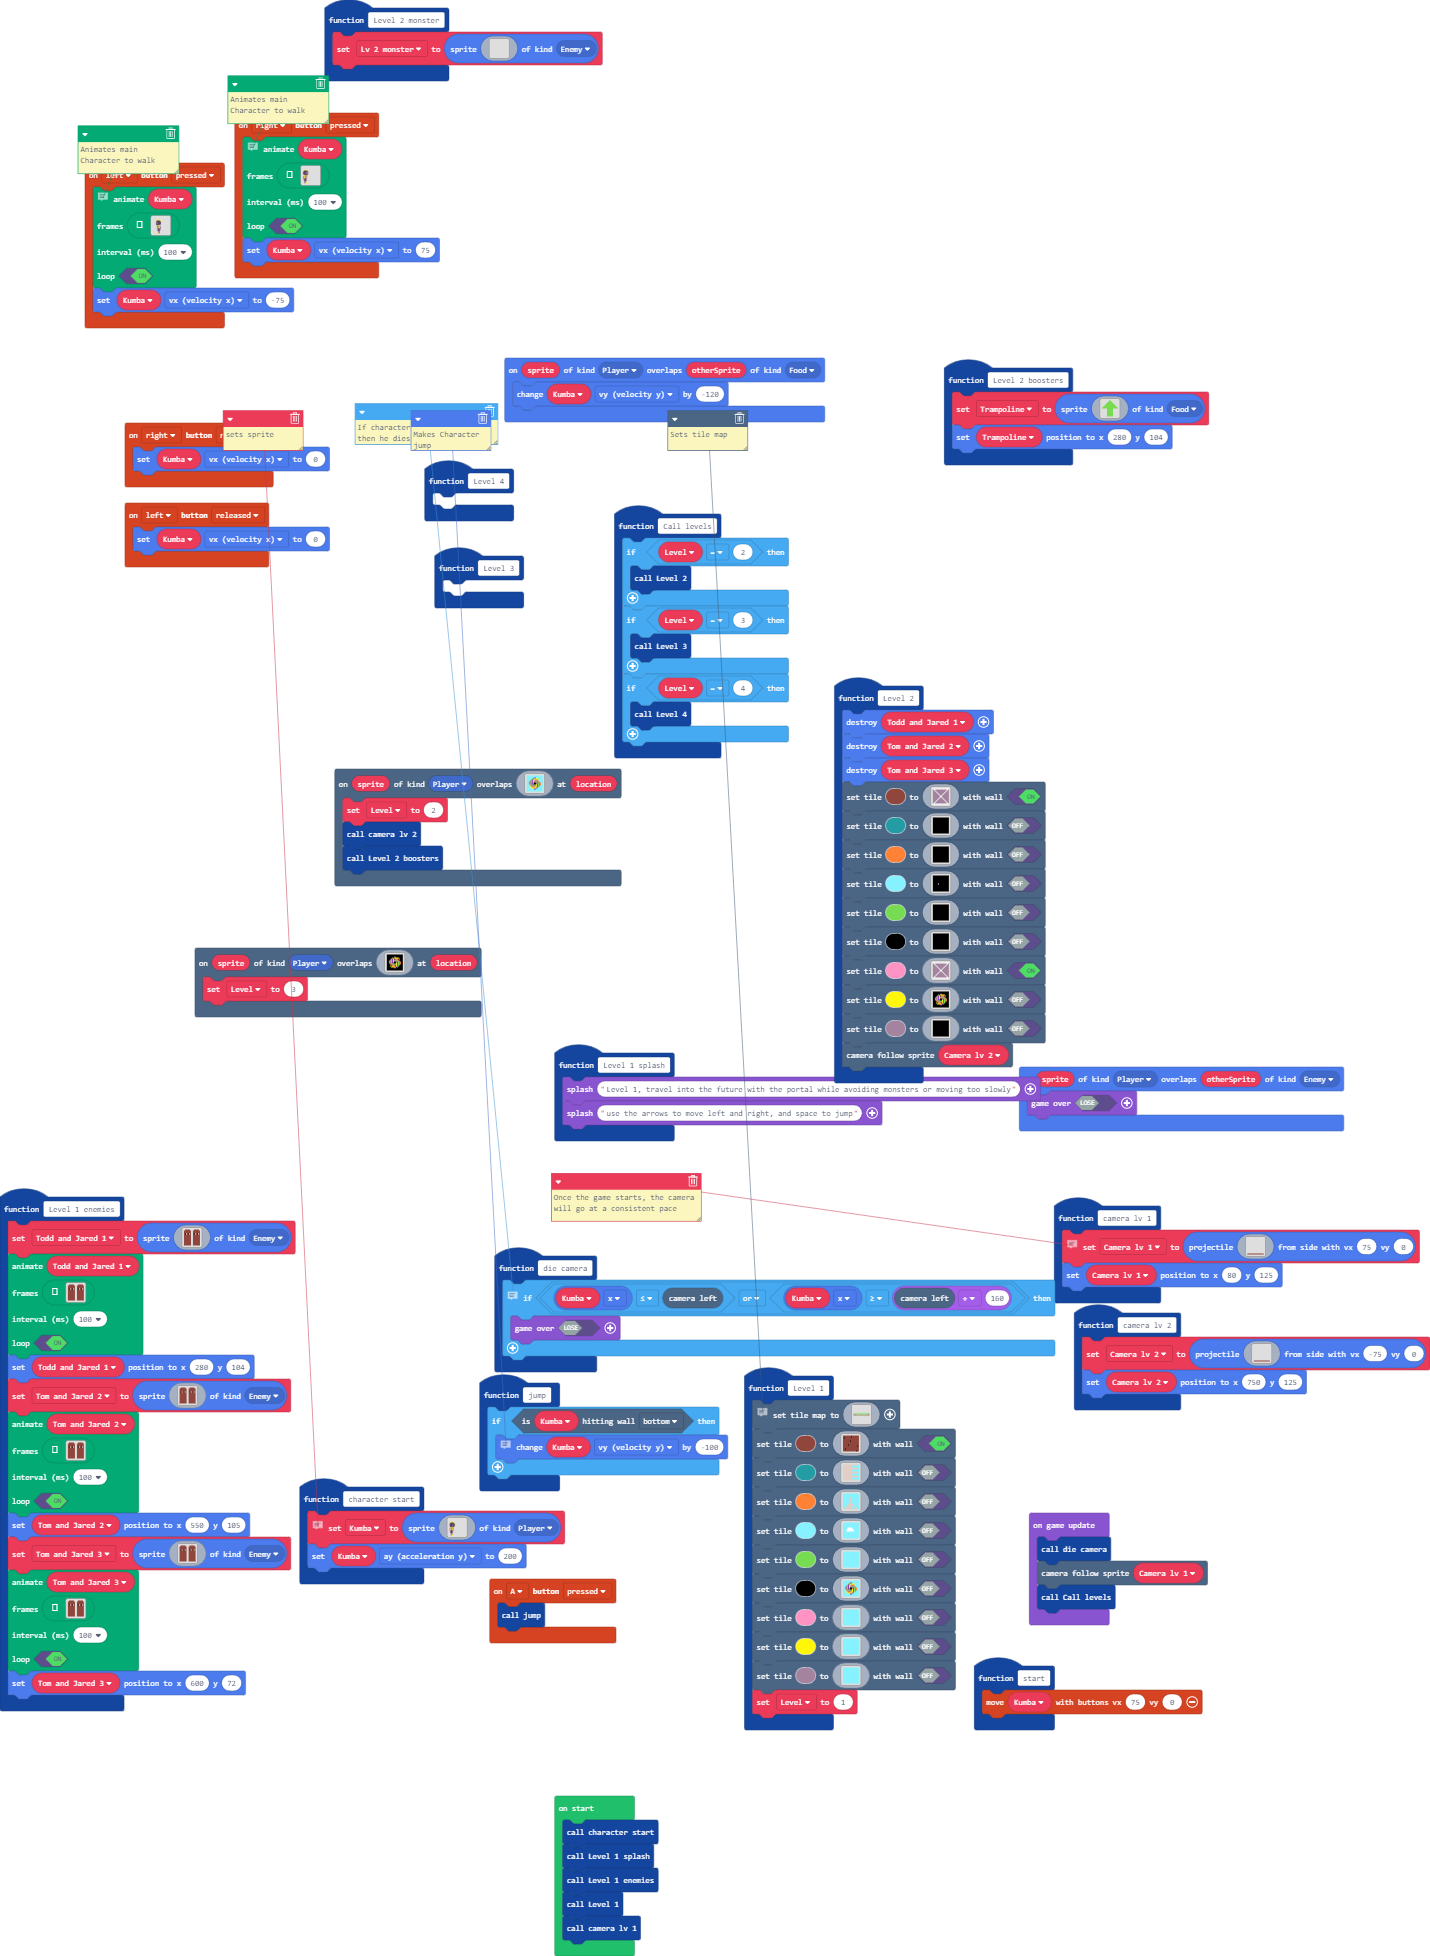
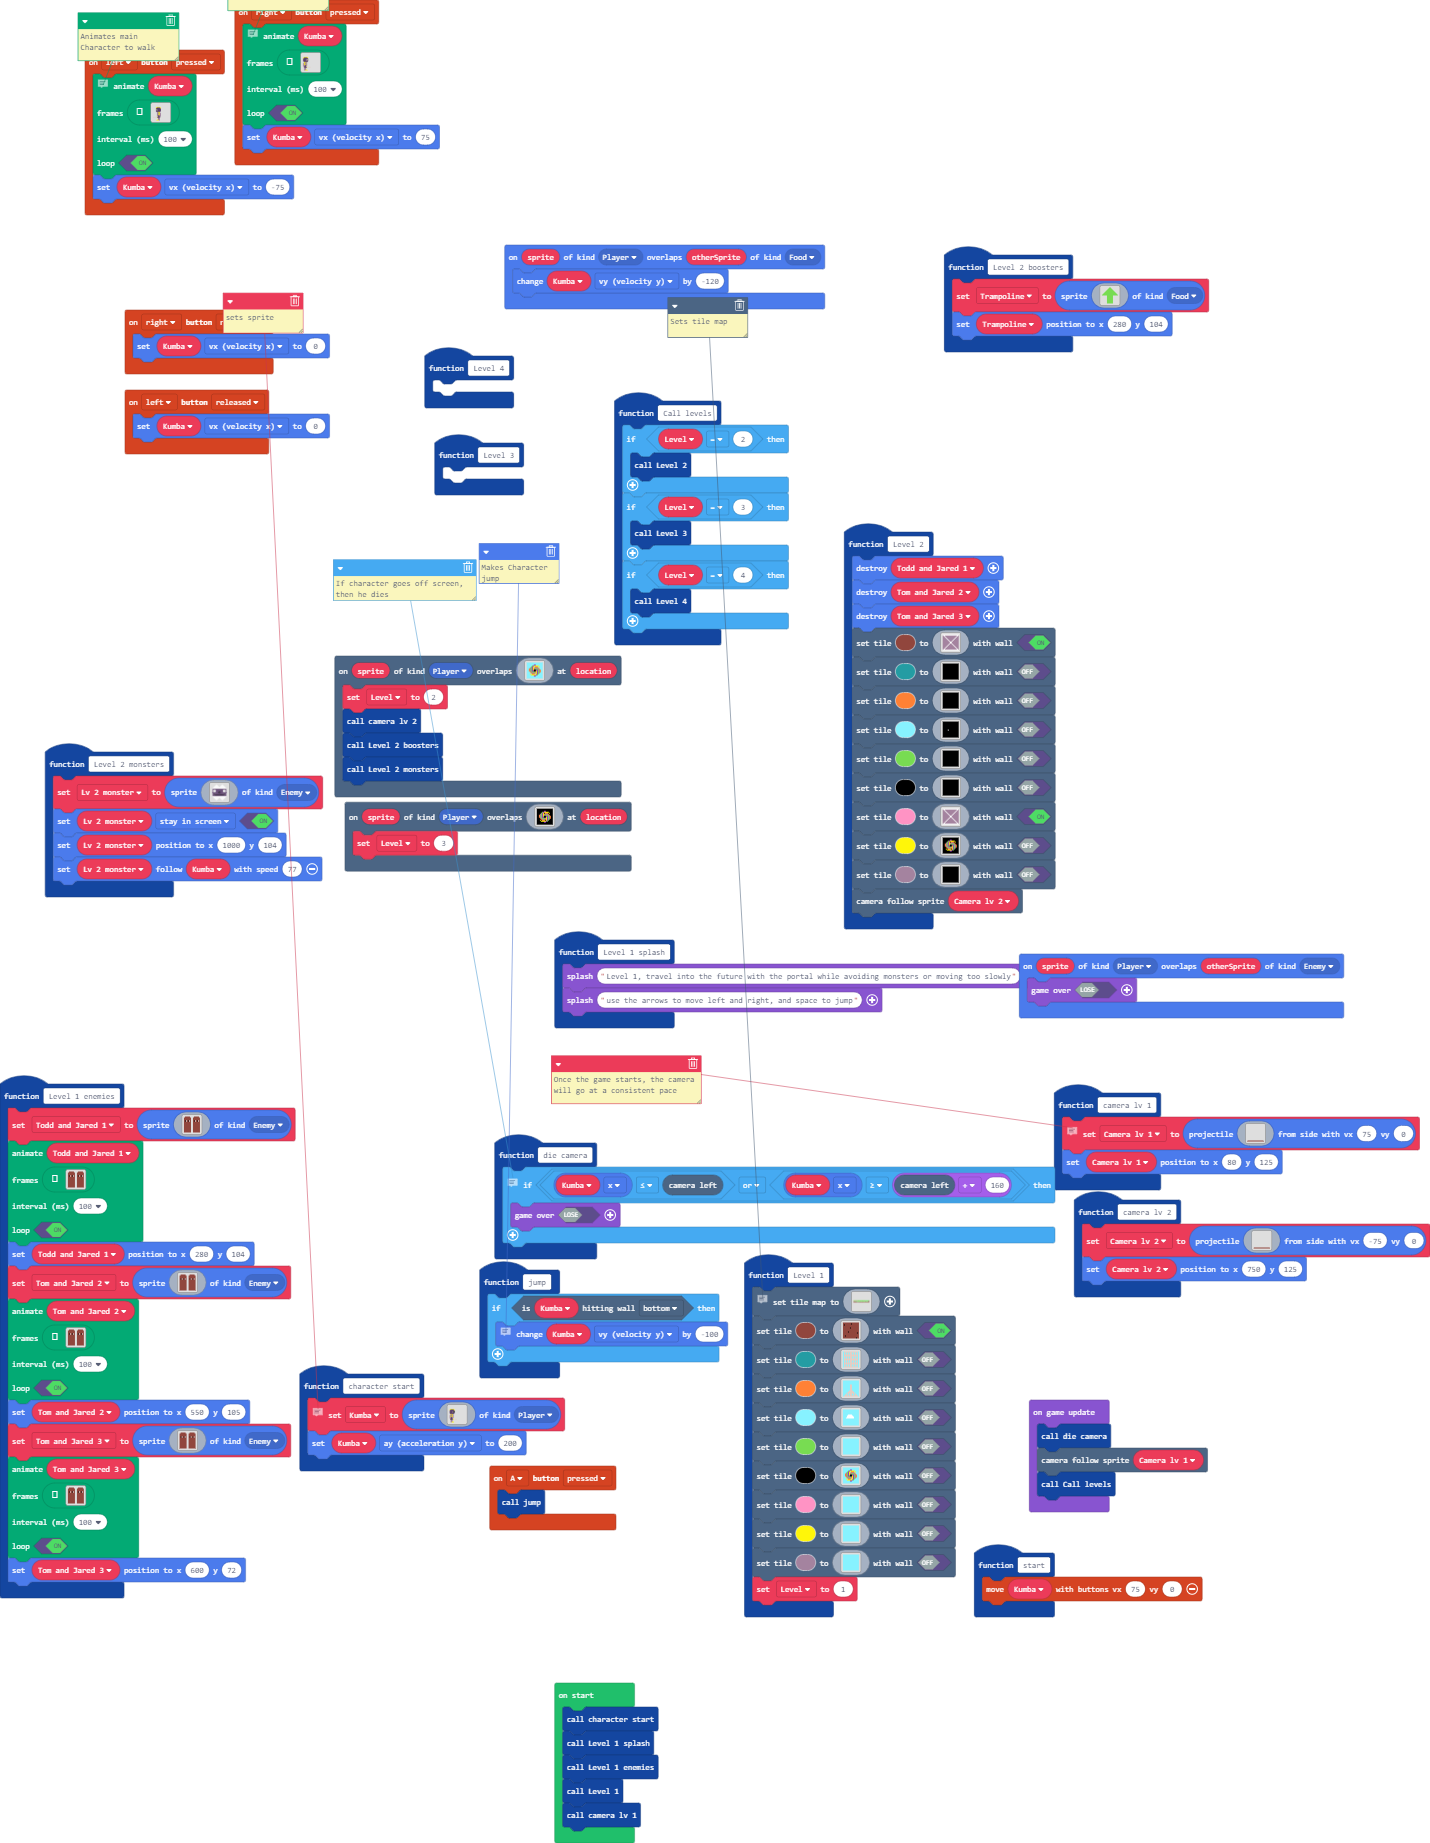
Update main.blocks, main.ts

diff --git a/main.ts b/main.ts
@@ -19,26 +19,6 @@ namespace myTiles {
 . . . . . . . . . . . . . . . . 
 `
 }
-function Level_2_monster () {
-    Lv_2_monster = sprites.create(img`
-. . . . . . . . . . . . . . . . 
-. . . . . . . . . . . . . . . . 
-. . . . . . . . . . . . . . . . 
-. . . . . . . . . . . . . . . . 
-. . . . . . . . . . . . . . . . 
-. . . . . . . . . . . . . . . . 
-. . . . . . . . . . . . . . . . 
-. . . . . . . . . . . . . . . . 
-. . . . . . . . . . . . . . . . 
-. . . . . . . . . . . . . . . . 
-. . . . . . . . . . . . . . . . 
-. . . . . . . . . . . . . . . . 
-. . . . . . . . . . . . . . . . 
-. . . . . . . . . . . . . . . . 
-. . . . . . . . . . . . . . . . 
-. . . . . . . . . . . . . . . . 
-`, SpriteKind.Enemy)
-}
 function camera_lv_2 () {
     Camera_lv_2 = sprites.createProjectileFromSide(img`
 . . . . . . . . . . . . . . . . 
@@ -91,6 +71,7 @@ scene.onOverlapTile(SpriteKind.Player, img`
     Level = 2
     camera_lv_2()
     Level_2_boosters()
+    Level_2_monsters()
 })
 function character_start () {
     // sets sprite
@@ -1804,9 +1785,50 @@ e e e e e e e e e e e e e e e e
 function start () {
     controller.moveSprite(Kumba, 75, 0)
 }
+function Level_2_monsters () {
+    Lv_2_monster = sprites.create(img`
+. . . . . . . . . . 1 . . . . . . . . . . . 1 . . . . . . . . . . 
+. . . . . . . . . 1 1 1 . . . . . . . . . 1 1 1 . . . . . . . . . 
+. . . . . . . . 1 1 1 1 1 . . . . . . . 1 1 1 1 1 . . . . . . . . 
+. . . . . . . 1 1 1 1 1 1 1 . . . . . 1 1 1 1 1 1 1 . . . . . . . 
+. . . . . . 1 1 1 1 1 1 1 1 1 . . . 1 1 1 1 1 1 1 1 1 . . . . . . 
+. . . . . 1 1 1 1 1 1 1 1 1 1 1 . 1 1 1 1 1 1 1 1 1 1 1 . . . . . 
+. . . . 1 1 1 1 1 1 1 1 1 1 1 1 1 1 1 1 1 1 1 1 1 1 1 1 1 . . . . 
+. . . 1 1 1 1 1 1 1 1 1 1 1 1 1 1 1 1 1 1 1 1 1 1 1 1 1 1 1 . . . 
+. . 1 1 1 1 1 1 1 1 1 1 1 1 1 1 1 1 1 1 1 1 1 1 1 1 1 1 1 1 1 . . 
+. 1 c c c c c c c c c c c c c c c c c c c c c c c c c c c c c 1 . 
+. 1 c c c c c c c c c c c c c c c c c c c c c c c c c c c c c 1 . 
+. 1 c c 1 1 1 1 1 c c c c c c c c c c c c c c c 1 1 1 1 1 c c 1 . 
+. 1 c c 1 1 1 1 1 c c c c c c c c c c c c c c c 1 1 1 1 1 c c 1 . 
+. 1 c c 1 1 f 1 1 c c c c c c c c c c c c c c c 1 1 f 1 1 c c 1 . 
+. 1 c c 1 1 1 1 1 c c c c c c c c c c c c c c c 1 1 1 1 1 c c 1 . 
+. 1 c c 1 1 1 1 1 c c c c c c f f f c c c c c c 1 1 1 1 1 c c 1 . 
+1 c c c c c c c c c c c c c c f 1 f c c c c c c c c c c c c c c 1 
+1 c c c c c c c c c c c c c c f f f c c c c c c c c c c c c c c 1 
+. 1 c c c c c c c c c c c c c c c c c c c c c c c c c c c c c 1 . 
+. 1 c c c f c c c c c c c c c c c c c c c c c c c c c f c c c 1 . 
+. 1 c c c c f c c c c c c c c c c c c c c c c c c c f c c c c 1 . 
+. 1 c c c c c f f f f f f f f f f f f f f f f f f f c c c c c 1 . 
+. 1 c c c c c c c c c c c c c c c c c c c c c c c c c c c c c 1 . 
+. 1 c c c c c c c c c c c c c c c c c c c c c c c c c c c c c 1 . 
+. . 1 1 1 1 1 1 1 1 1 1 1 1 1 1 1 1 1 1 1 1 1 1 1 1 1 1 1 1 1 . . 
+. . . 1 1 1 1 1 1 1 1 1 1 1 1 1 1 1 1 1 1 1 1 1 1 1 1 1 1 1 . . . 
+. . . . 1 1 1 1 1 1 1 1 1 1 1 1 1 1 1 1 1 1 1 1 1 1 1 1 1 . . . . 
+. . . . . 1 1 1 1 1 1 1 1 1 1 1 . 1 1 1 1 1 1 1 1 1 1 1 . . . . . 
+. . . . . . 1 1 1 1 1 1 1 1 1 . . . 1 1 1 1 1 1 1 1 1 . . . . . . 
+. . . . . . . 1 1 1 1 1 1 1 . . . . . 1 1 1 1 1 1 1 . . . . . . . 
+. . . . . . . . 1 1 1 1 1 . . . . . . . 1 1 1 1 1 . . . . . . . . 
+. . . . . . . . . 1 1 1 . . . . . . . . . 1 1 1 . . . . . . . . . 
+. . . . . . . . . . 1 . . . . . . . . . . . 1 . . . . . . . . . . 
+`, SpriteKind.Enemy)
+    Lv_2_monster.setFlag(SpriteFlag.StayInScreen, true)
+    Lv_2_monster.setPosition(1000, 104)
+    Lv_2_monster.follow(Kumba, 77)
+}
 function Level_3 () {
 	
 }
+let Lv_2_monster: Sprite = null
 let Camera_lv_1: Sprite = null
 let Trampoline: Sprite = null
 let Tom_and_Jared_3: Sprite = null
@@ -1815,7 +1837,6 @@ let Todd_and_Jared_1: Sprite = null
 let Level = 0
 let Kumba: Sprite = null
 let Camera_lv_2: Sprite = null
-let Lv_2_monster: Sprite = null
 character_start()
 Level_1_splash()
 Level_1_enemies()
